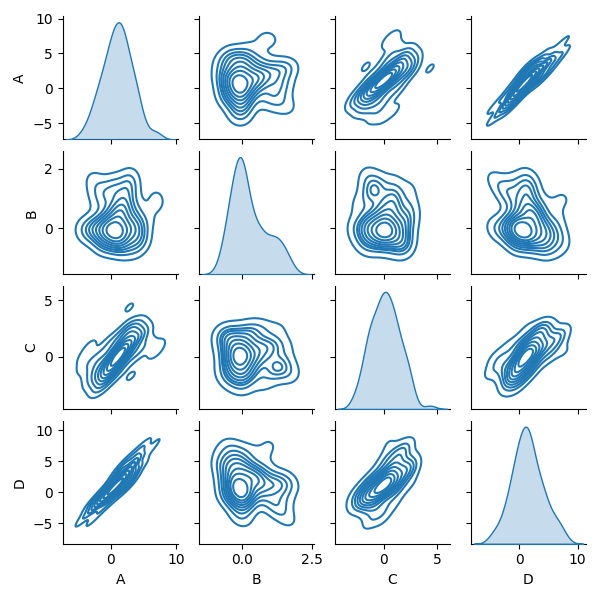
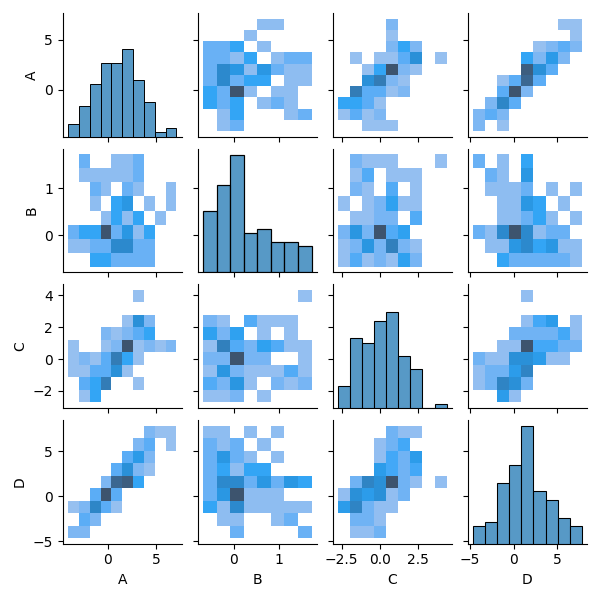
Added Mutial information function

diff --git a/Analysis.py b/Analysis.py
@@ -2,6 +2,7 @@
 import pandas as pd
 import matplotlib.pyplot as plt
 import seaborn as sns
+import numpy as np
 
 
 def main(data = None):
@@ -16,15 +17,14 @@ def main(data = None):
     plt.show()
     sns.pairplot(df,kind ="kde", height=1.5)
     plt.savefig('plots/KDE_Pairplot.png_'+data+'.png')
-
-
     plt.show()
+
+
     print("Basic description of the data: ")
     print(df.describe())
     print()
     print("Correlation matrix: ")
     print(df.corr())
-
 
 
 df = pd.read_csv('sample/data_569.csv', index_col = 0)
@@ -35,4 +35,31 @@ print('A min/max: ',min(df['A']),max(df['A']),"Mean: ", df['A'].mean(),"Std: ", 
 print('A min/max: ',min(df2['A']),max(df2['A']), df2['A'].mean(), df2['A'].std())
 print('A min/max: ',min(df3['A']),max(df3['A']), df3['A'].mean(), df3['A'].std())
 
-#main(data = 'data_C=-1-57')
+#main(data = 'data_569')
+
+
+#function to calculate mutual information
+def MI(x,y,Nbins = 21):
+    bins = np.linspace(min(x),max(x),Nbins)
+    eps = np.spacing(1)
+    x_marginal = np.histogram(x,bins)[0]
+    y_marginal = np.histogram(y,bins)[0]
+    x_marginal = x_marginal/x_marginal.sum()
+    y_marginal = y_marginal/y_marginal.sum()
+    xy_joint = np.histogram2d(x,y,bins = (bins,bins))[0]
+    xy_joint = xy_joint/xy_joint.sum()
+    plt.figure()
+    plt.subplot(1,2,1)
+    plt.imshow(xy_joint,origin = 'lower')
+    plt.title('Joint Distribution')
+    plt.subplot(1,2,2)
+    plt.imshow((x_marginal[:,None]*y_marginal[None,:]).T,origin = 'lower')
+    plt.title('Product of marginals')
+    MI = np.sum(xy_joint*np.log(xy_joint/(x_marginal[:,None]*y_marginal[None,:]+eps)+eps))
+    plt.suptitle('Mutual Information: '+str(MI))
+    plt.show()
+    return MI
+
+
+
+MI(df['A'],df['B'],10)
